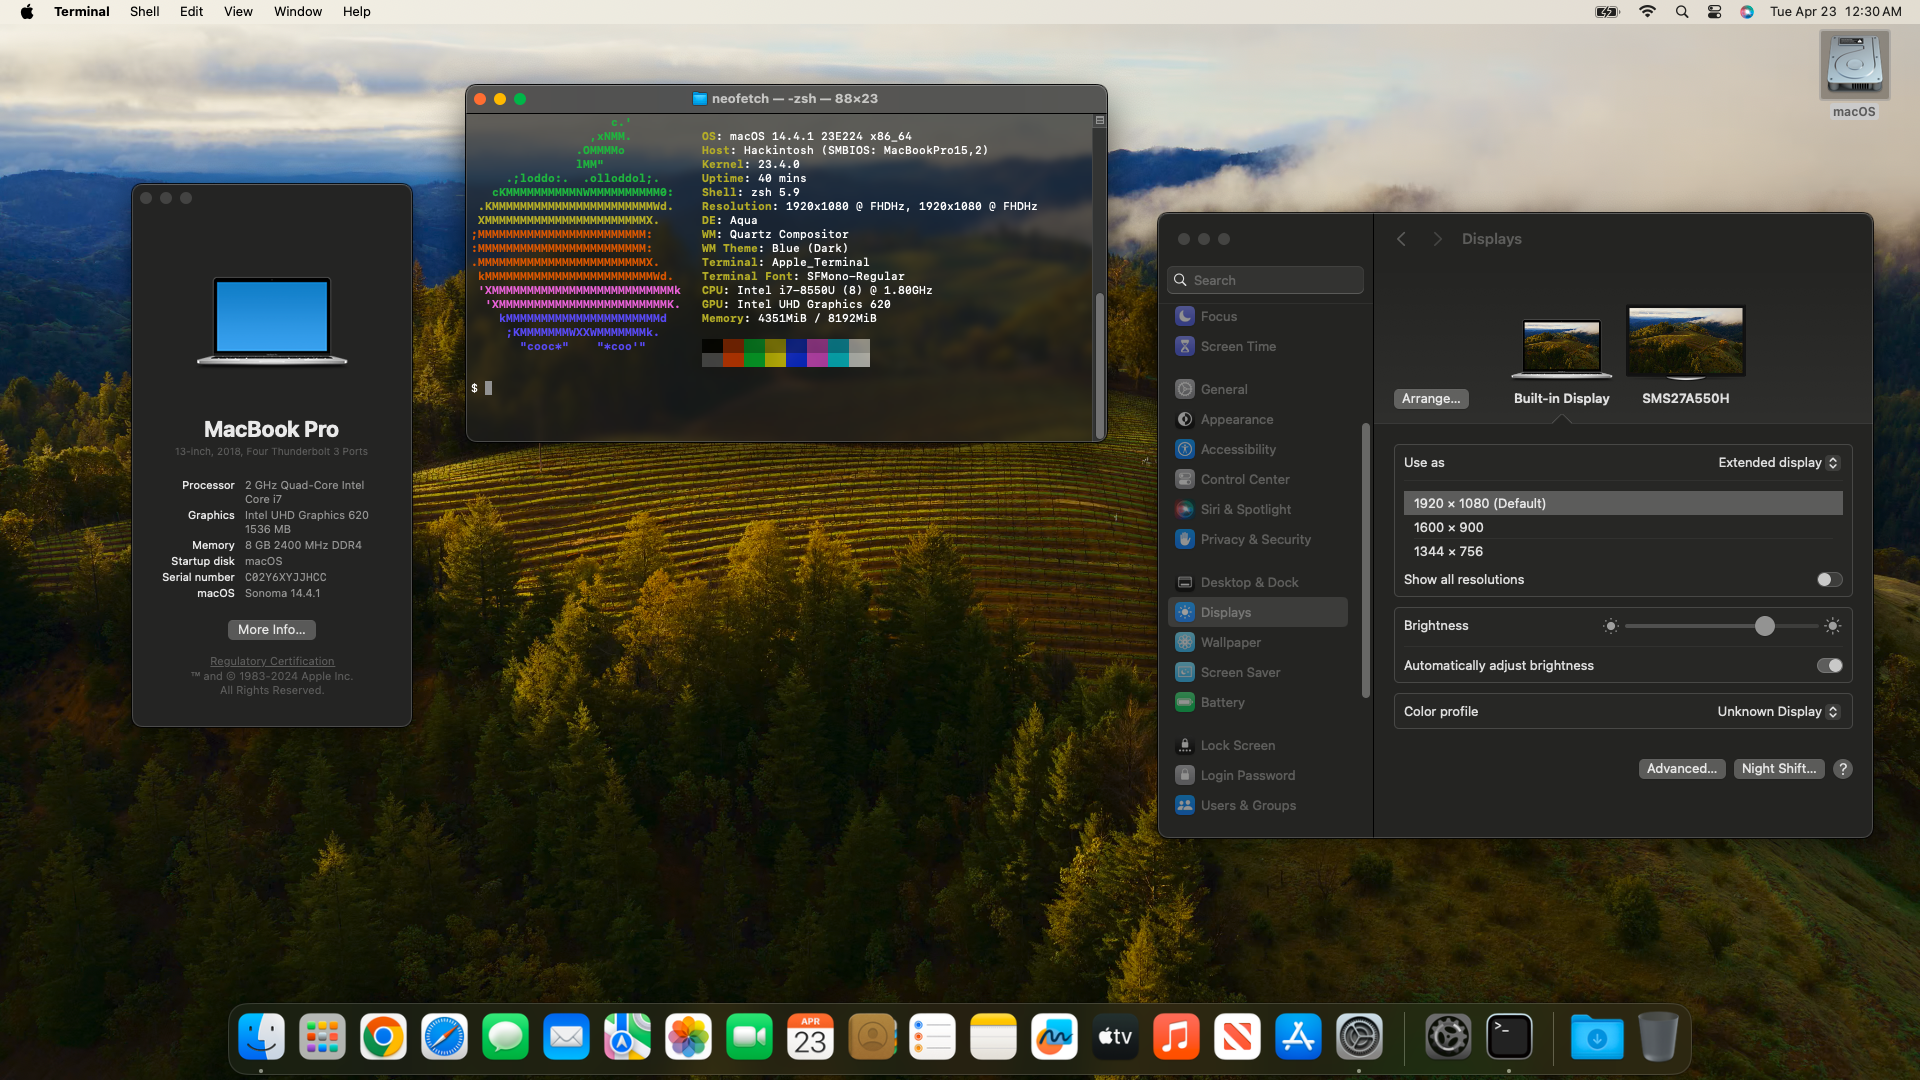
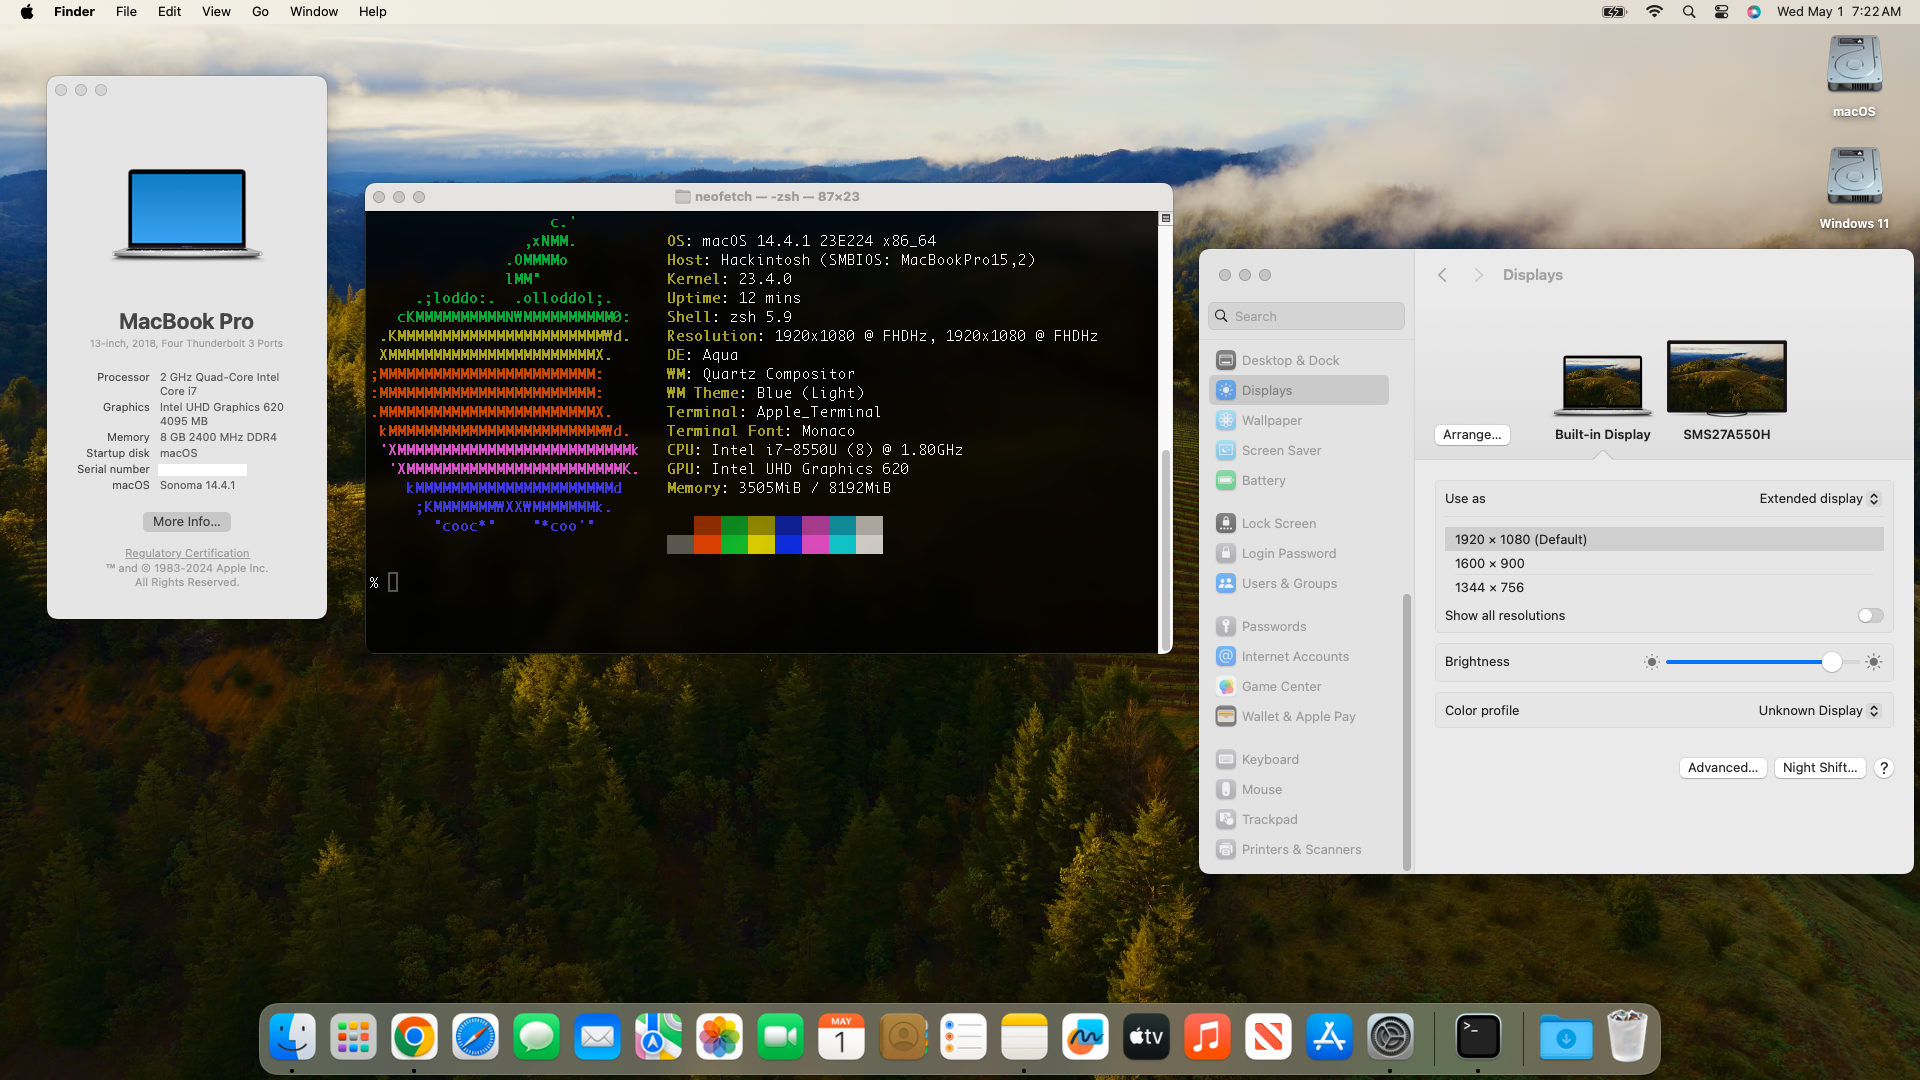
Updated

diff --git a/README.md b/README.md
@@ -30,16 +30,18 @@ I've _finally_ managed to get OpenCore running on this machine, after running in
 > **You have to add [CpuTscSync.kext](https://github.com/acidanthera/CpuTscSync/releases)  and `TSC_sync_margin=0` boot arg or macOS will fail to load!**
 
 - After successful install, then copied EFI folder to internal EFI partition and [generated SMBIOS](https://github.com/corpnewt/GenSMBIOS) for `MacBookPro15,2`
+- Removed `MaLd0n.aml` file from prebuilt EFI and generated proper ACPI for Kaby Lake and OpenCore _(as per [dortania](https://dortania.github.io/OpenCore-Install-Guide/config-laptop.plist/kaby-lake.html) guide)_ using [SSDTTime](https://github.com/corpnewt/SSDTTime) _[under Windows]_ to dump DSDT and ran patches: `FixHPET`, `FakeEC Laptop`, `PluginType`, `PNLF`, `XOSI`, and `Fix DMAR`
+- Generate [USB Map](https://github.com/corpnewt/USBMap) _[under Windows]_ and replaced `USBInjectAll.kext`
+	- _Note this will fix issues with sleep!_
 - Modified OpenCore `config.plist` and tweaked some values the olarila.com prebuilt EFI folder came with: 
 	- Modificed the `DeviceProperties` for `PciRoot(0x0)/Pci(0x2,0x0)` aka the Intel UHD 620 IGPU; See table below.
-		- This enables proper graphics accelleration/frame buffer with HDMI output and Metal 3 support.
+		- This enables proper graphics accelleration/frame buffer with external HDMI output, 4095MB VRAM, and Metal 3 support.
 	- Changed AppleALC boot arg from `alcid=3` to instead use `alcid=13` to better match Conexant Audio CX8050 which also enables internal microphone
 	- Enabled wifi support for the Intel Dual Band Wireless-AC 8265 via the [itlwm 2.3.0-alpha version](https://github.com/OpenIntelWireless/itlwm/releases/tag/v2.3.0-alpha) kext.
 		- _Debating if I should set country code via `itlwm_cc=` boot arg_
 	- Modified OC to use [BsxDarkFenceLight1](https://github.com/blackosx/BsxDarkFenceLight1) theme
 	- Update kexts via [kextupdater](https://github.com/MacThings/kextupdater)
 	- _(Optional)_ Configured OpenCore to boot Linix via [OpenLinuxBoot](OpenLinuxBoot) method
-	- _Todo:_ Generate [USB Map](https://github.com/corpnewt/USBMap) _(under Windows)_ and replace `USBInjectAll.kext`
 	- _Todo:_ Install and enable [AsusSMC](https://github.com/hieplpvip/AsusSMC) -- follow here for [SSDT patching](https://github.com/hieplpvip/AsusSMC/issues/93) related to this
 	- _Note:_ As per [this](https://dortania.github.io/OpenCore-Post-Install/universal/sleep.html#fixing-gpus) the `forceRenderStandby=0` boot arg may be needed if kernel panic on sleep occurs; Noticed that `-noDC9` boot arg is present in the Coffee Lake prebuilt EFI, not sure if needed but making note of it here.
 	- Whatevergreen `igfxfw=2` boot arg causes [failure when loading IGPU firmware](https://elitemacx86.com/threads/how-to-improve-igpu-performance-intel-graphics-on-macos.1059/), do not use!
@@ -66,4 +68,5 @@ Intel UHD 620 Graphics
 | framebuffer-fbmem        |   Data   | ``00009000`` |
 | framebuffer-patch-enable |   Data   | ``01000000`` |
 | framebuffer-stolenmem    |   Data   | ``00003001`` |
+| framebuffer-unifiedmem   |   Data   | ``FFFFFFFF`` |
 | enable-metal             |   Data   | ``01000000`` |
